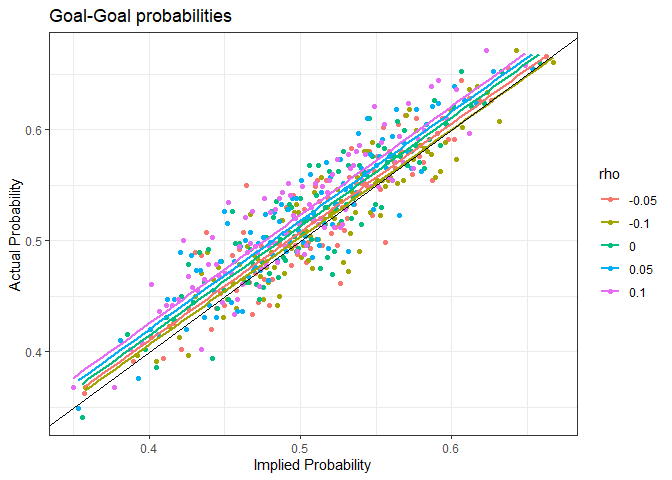
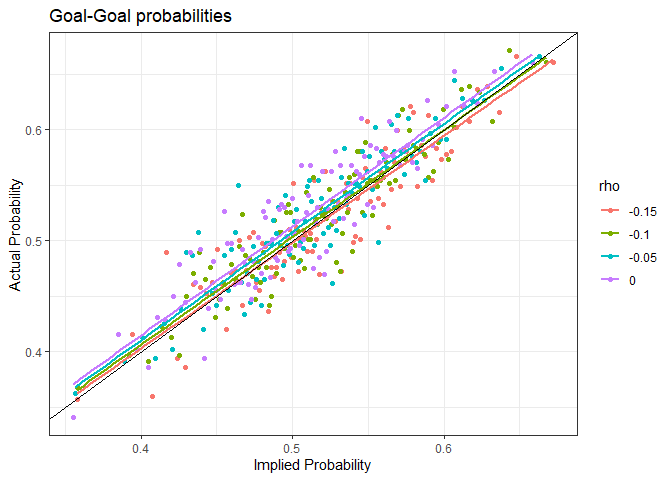
refactor

diff --git a/implied-goals.md b/implied-goals.md
@@ -7,7 +7,7 @@ Thanos Livanis
 bookmaker’s odds**
 
 *OU line is used to estimate goal Expectancy (homeG + awayG) & 1X2 odds
-to estimate goal Supremacy(homeG - awayG)*
+goal Supremacy(homeG - awayG)*
 
 Dixon-Coles model: [Modelling Association Football Scores and
 Inefficiencies](https://academic.oup.com/jrsssc/article/46/2/265/6990546)  
@@ -20,7 +20,10 @@ package](https://opisthokonta.net/?p=1797)
 - [Distributions](#distributions)
   - [Total Goals](#total-goals)
   - [Goal Difference](#goal-difference)
-- [Expectancy and Supremacy](#expectancy-and-supremacy)
+- [Probabilities](#probabilities)
+- [Expectancy](#expectancy)
+- [Supremacy and GG](#supremacy-and-goal-goal)
+- [Fitting](#fitting)
 
 ## Data
 
@@ -37,7 +40,7 @@ options(scipen = 999)
 
 football_odds <- readRDS(file = "./data-raw/football-data.rds")
 
-# Odds Abbreviations for 1x2, OU in Football-data.co.uk. Includes only instances where we have odds for both 1X2 and OU
+# odds abbreviations for 1x2, OU in Football-data.co.uk. Includes only instances where we have odds for both 1X2 and OU
 odds_1x2 <- list(Bet365 = c("B365H", "B365D", "B365A"), Bet365C = c("B365CH", "B365CD", "B365CA"),
                  Pinnacle = c("PSH", "PSD", "PSA"), PinnacleC = c("PSCH", "PSCD", "PSCA"),
                  MarketAvg = c("AvgH", "AvgD", "AvgA")) 
@@ -50,8 +53,7 @@ odds_abbs <- list('1X2' = odds_1x2, OU = odds_ou)
 
 # full time total goals, goal difference, and goal-goal
 football_odds <- football_odds %>%
-  mutate(ID = rownames(.),
-         FTG = FTHG + FTAG,
+  mutate(FTG = FTHG + FTAG,
          FTGD = FTHG - FTAG, 
          GG = ifelse(FTHG >= 1 & FTAG >= 1, T, F)) 
 ```
@@ -144,7 +146,49 @@ ggplot(football_odds, aes(x = FTGD)) +
 
 <img src="implied-goals_files/figure-gfm/diff_distr-1.png" style="display: block; margin: auto;" />
 
-## Expectancy and Supremacy
+## Probabilities
+
+The **“basic”** method from Implied package is not a good way to remove
+bookmaker’s margin, but in our case, if we employ a simple
+Dixon-Coles\|Skellam model to estimate win probability of home team it
+seems to lead to better results, the other methods do not succeed. 
+
+``` r
+fair_propabilities <- function(data, bookmaker, market, method) {
+  
+  odds <- odds_abbs[[market]][[bookmaker]]
+  
+  # Exclude invalid odds (overround > 1, all odds > 1)
+  valid_overround <- rowSums(1/data[, odds], na.rm = T) > 1
+  df <- data[valid_overround, ] %>% filter(if_all(all_of(odds), ~. > 1))
+  
+  fair_props <- implied_probabilities(df[, odds], method) 
+  
+  is_ok <- which(!fair_props[["problematic"]])  
+  fair_props <- as.data.frame(fair_props[["probabilities"]])
+  
+  fair_props <- if (market == "OU") 
+    setNames(fair_props, c("PO", "PU"))
+  else
+    setNames(fair_props, c("PH", "PD", "PA"))
+  
+  return (bind_cols(df[is_ok, ], fair_props[is_ok, ]))
+}
+
+bookie <- "Pinnacle"
+
+props <- football_odds %>% 
+  fair_propabilities(bookie, "OU", "basic") %>%
+  fair_propabilities(bookie, "1X2", "basic") %>%
+  select(FTHG, FTAG, FTG, FTGD, GG, PO, PU, PH, PD, PA) 
+```
+
+## Expectancy
+
+*Expectancy doesn’t depend on rho, supremacy does.*  
+Dixon-Coles model adjusts probabilities of low scores but the summation
+of under 2.5 scores is equal to the standard poisson model. Find λ such
+that: $\sum_{k = 0}^{2} \frac{λ^{k}e^{-λ}}{k!} = under$
 
 ``` r
 # Given Under probability find the mean of the Poisson distribution
@@ -160,6 +204,22 @@ implied_expectancy <- function(under_prop, under_line = 2.5) {
   return (exp)
 }
 
+goals <- props %>%
+  mutate(Expectancy = sapply(PU, implied_expectancy))
+
+ggplot(goals, aes(x = Expectancy, y = FTHG + FTAG)) +
+  geom_point(alpha = 0.1) + geom_smooth(method = "lm", formula = y ~ x, se = F) +
+  geom_abline(slope = 1, intercept = 0) +
+  coord_cartesian(xlim = c(1.5, 5), ylim = c(0, 10)) +
+  theme_bw() +
+  labs(title = "Actual Total Goals ~ Expectancy", y = "Home Goals + Away Goals") 
+```
+
+<img src="implied-goals_files/figure-gfm/expectancy-1.png" style="display: block; margin: auto;" />
+
+# Supremacy and Goal-Goal
+
+``` r
 # Given goal expectancy and probability of Home team to win get supremacy
 # win probability of HT is the CDF of the adjusted Skellam 
 # @rho: default value 0 -> standard Skellam 
@@ -193,89 +253,36 @@ gg_prop <- function(home_exp, away_exp, rho = -0.1) {
   
   return(1 - (sum(score[, 1]) + sum(score[1, ]) - score[1, 1]))
 }
-```
 
-``` r
-fair_propabilities <- function(data, bookmaker, market, method) {
+expected_goals <- function(goals, rho) {
   
-  odds <- odds_abbs[[market]][[bookmaker]]
-  
-  # Exclude invalid odds (overround > 1, all odds > 1)
-  valid_overround <- rowSums(1/data[, odds], na.rm = T) > 1
-  df <- data[valid_overround, ] %>% filter(if_all(all_of(odds), ~. > 1))
-  
-  fair_props <- implied_probabilities(df[, odds], method) 
-  
-  is_ok <- which(!fair_props[["problematic"]])  
-  fair_props <- as.data.frame(fair_props[["probabilities"]])
-  
-  fair_props <- if (market == "OU") 
-    setNames(fair_props, c("PO", "PU"))
-  else
-    setNames(fair_props, c("PH", "PD", "PA"))
-  
-  return (bind_cols(df[is_ok, ], fair_props[is_ok, ]))
-}
-
-# @method: method to remove overround with implied package
-expected_goals <- function(data, bookmaker, rho, method = "basic") {
-  
-  data %>% 
-    fair_propabilities(bookmaker, "OU", method) %>%
-    fair_propabilities(bookmaker, "1X2", method) %>%
-    select(FTHG, FTAG, FTG, FTGD, GG, PO, PU, PH, PD, PA) %>%
-    
-    mutate(Expectancy = sapply(PU, implied_expectancy), 
-           Supremacy = map2_dbl(PH, Expectancy, implied_supremacy, rho = rho),
+  goals %>% 
+    mutate(Supremacy = map2_dbl(PH, Expectancy, implied_supremacy, rho = rho),
            Home_exp = (Expectancy + Supremacy)/2,
            Away_exp = (Expectancy - Supremacy)/2, 
            PGG = map2_dbl(Home_exp, Away_exp, gg_prop, rho = rho),
-           rho = as.character(rho), 
-           method = method) %>%
+           rho = rho) %>%
     drop_na()
 }
 
-rho <-  seq(-0.1, 0.1, 0.05)
+rho <-  seq(-0.15, 0, 0.05)
 
-goal_expectancy <- map_dfr(rho, expected_goals, data = football_odds, bookmaker = "Pinnacle") 
+goals <- map_dfr(rho, expected_goals, goals = goals) 
 ```
 
-*Expectancy doesn’t depend on rho, supremacy does.*  
-The **“Basic”** method from Implied package is not a good way to remove
-bookmaker’s margin, but in this case, if we employ a simple
-Dixon-Coles\|Skellam model to estimate win probability of home team it
-seems to lead to better results, the other methods do not succeed. 
-Rho’s values is -0.1 by calibrating the goal-goal probability.
+## Fitting
+
+Rho’s value is -0.1 by calibrating the goal-goal probability.
 
 ``` r
-ggplot(filter(goal_expectancy, rho == "0"), aes(x = Expectancy, y = FTHG + FTAG)) +
-  geom_point(alpha = 0.1) + geom_smooth(method = "lm", se = F) +
-  geom_abline(slope = 1, intercept = 0) +
-  coord_cartesian(ylim = c(0, 6)) +
-  theme_bw() +
-  labs(title = "Actual Total Goals ~ Expectancy", y = "Home Goals + Away Goals") 
-```
+goals$rho <- as.factor(goals$rho)
 
-<img src="implied-goals_files/figure-gfm/plots-1.png" style="display: block; margin: auto;" />
-
-``` r
-ggplot(goal_expectancy, aes(x = Supremacy, y = FTGD, color = rho)) +
-  geom_point(alpha = 0.1) + geom_smooth(method = "lm", se = F) +
-  geom_abline(slope = 1, intercept = 0) +
-  coord_cartesian(ylim = c(-5, 5)) +
-  theme_bw() +
-  labs(title = "Actual Goal Difference ~ Supremacy", y = "Home Goals - Away Goals") 
-```
-
-<img src="implied-goals_files/figure-gfm/plots-2.png" style="display: block; margin: auto;" />
-
-``` r
-brier_score_gg <- goal_expectancy %>%
+brier_score_gg <- goals %>%
   mutate(BS = (GG - PGG)^2) %>%
   summarize(bs_avg = mean(BS), .by = rho) %>%
   arrange(bs_avg)
 
-goal_expectancy %>%
+goals %>%
   group_by(rho) %>%
   mutate(pgg_int = ntile(PGG, 100)) %>%
   group_by(pgg_int, .add = T) %>%
@@ -284,7 +291,7 @@ goal_expectancy %>%
             actual_prop = mean(GG), 
             .groups = "drop") %>%
   ggplot(aes(x = implied_prop, y = actual_prop, color = rho)) +
-  geom_point() + geom_smooth(method = "lm", mapping = aes(weight = obs), se = F) + 
+  geom_point() + geom_smooth(method = "lm", formula = y ~ x, mapping = aes(weight = obs), se = F) + 
   geom_abline(slope = 1, intercept = 0) + theme_bw() +
   theme_bw() +
   labs(x = "Implied Probability", y = "Actual Probability", 
@@ -294,11 +301,25 @@ goal_expectancy %>%
 <img src="implied-goals_files/figure-gfm/gg_prop-1.png" style="display: block; margin: auto;" />
 
 ``` r
-ggplot(filter(goal_expectancy, rho == "-0.1"), aes(x = PH, y = Supremacy, color = PU)) +
-  geom_point(alpha = 0.1) + geom_smooth(method = "lm", formula = y ~ poly(x,8), se = F) +
+goals %>%
+  filter(rho == "-0.1") %>%
+  ggplot(aes(x = Supremacy, y = FTGD)) +
+  geom_point(alpha = 0.1) + geom_smooth(method = "lm", formula = y ~ x, se = F) +
+  geom_abline(slope = 1, intercept = 0) +
+  coord_cartesian(ylim = c(-5, 5)) +
   theme_bw() +
-  labs(title = "Supremacy ~ f(Home Prop, Under Prop)",
-       x = "Home Probability") 
+  labs(title = "Actual Goal Difference ~ Supremacy", y = "Home Goals - Away Goals") 
+```
+
+<img src="implied-goals_files/figure-gfm/plot_sup-1.png" style="display: block; margin: auto;" />
+
+``` r
+goals %>%
+  filter(rho == "-0.1") %>%
+  ggplot(aes(x = PH, y = Home_exp, color = PU)) +
+  geom_point(alpha = 0.1) + 
+  theme_bw() +
+  labs(title = "Home Expectancy ~ f(Home Prop, Under Prop)", x = "Home Probability") 
 ```
 
 <img src="implied-goals_files/figure-gfm/reg-1.png" style="display: block; margin: auto;" />
